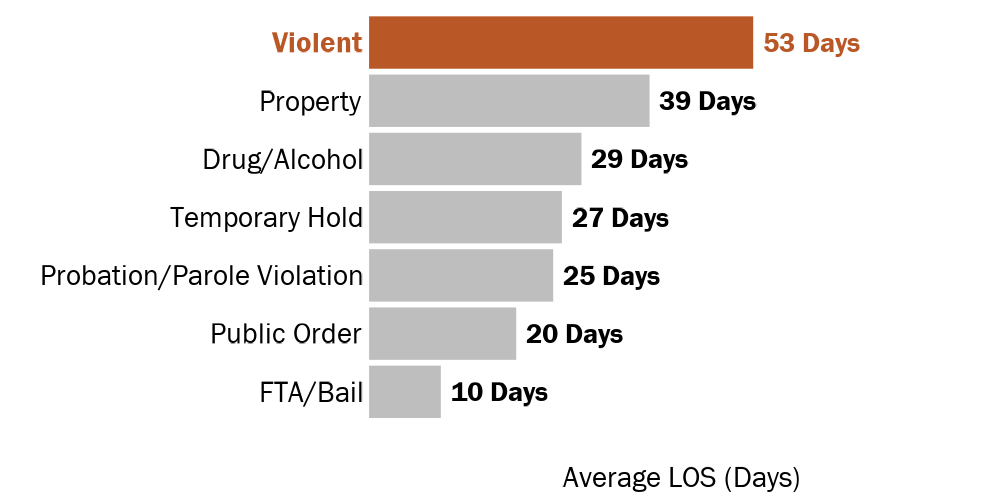
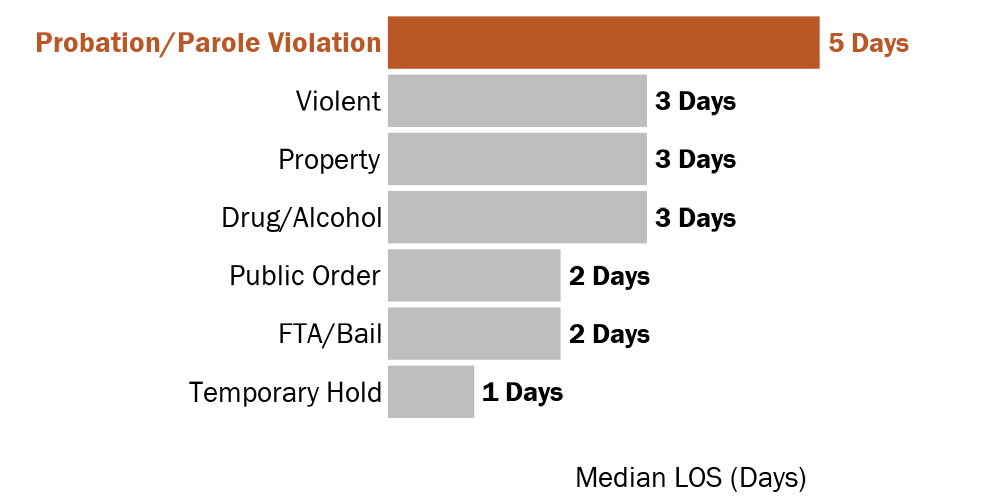
update los for median

diff --git a/_site/nh_los_analysis.html b/_site/nh_los_analysis.html
@@ -2545,8 +2545,8 @@ Research
 <h1 id="length-of-stay-statewide-from-2019-to-2021-dhhs-data">Length of Stay, Statewide from 2019 to 2021 (DHHS data)</h1>
 <p>Length of stay was calculated by the number of days between the booking date and release date (regardless of time). Some jails provided time stamps while others only provided month, day, and year. High utilizers have shorter lengths of stay compared to non-high utilizers.</p>
 <div class="layout-chunk" data-layout="l-body">
-<div class="reactable html-widget html-fill-item-overflow-hidden html-fill-item" id="htmlwidget-547ee866d4831f6e8308" style="width:auto;height:auto;"></div>
-<script type="application/json" data-for="htmlwidget-547ee866d4831f6e8308">{"x":{"tag":{"name":"Reactable","attribs":{"data":{"hu_group_exclusive":["Tier 1 HU","Tier 2 HU","Tier 3 HU","Non-HU","All (HU's and non-HU's)"],"min":[0,0,0,0,0],"median":[1,2,2,2,2],"mean":[14,23.6,28.7,29.8,27.6],"max":[869,816,827,1317,1317]},"columns":[{"id":"hu_group_exclusive","name":"","type":"factor","format":{"cell":{"separators":true},"aggregated":{"separators":true}},"align":"left","minWidth":190,"style":{"fontWeight":"bold","position":"sticky","borderRight":"1px solid #d3d3d3"}},{"id":"min","name":"Minimum","type":"numeric","format":{"cell":{"separators":true},"aggregated":{"separators":true}},"align":"left","minWidth":90},{"id":"median","name":"Median","type":"numeric","format":{"cell":{"separators":true},"aggregated":{"separators":true}},"align":"left","minWidth":90},{"id":"mean","name":"Mean","type":"numeric","format":{"cell":{"separators":true},"aggregated":{"separators":true}},"align":"left","minWidth":90},{"id":"max","name":"Maximum","type":"numeric","format":{"cell":{"separators":true},"aggregated":{"separators":true}},"align":"left","minWidth":90}],"pagination":false,"compact":true,"style":{"fontFamily":"Franklin Gothic Book","fontSize":"1.0rem"},"rowStyle":[null,null,null,null,{"border-top":"thin solid","fontWeight":"bold"}],"inline":true,"theme":{"cellStyle":{"display":"flex","flexDirection":"column","justifyContent":"center"}},"dataKey":"0d595599327592cf9c227e11d1192aaf"},"children":[]},"class":"reactR_markup"},"evals":[],"jsHooks":[]}</script>
+<div class="reactable html-widget html-fill-item-overflow-hidden html-fill-item" id="htmlwidget-e91be89118be5106324d" style="width:auto;height:auto;"></div>
+<script type="application/json" data-for="htmlwidget-e91be89118be5106324d">{"x":{"tag":{"name":"Reactable","attribs":{"data":{"hu_group_exclusive":["Tier 1 HU","Tier 2 HU","Tier 3 HU","Non-HU","All (HU's and non-HU's)"],"min":[0,0,0,0,0],"median":[1,2,2,2,2],"mean":[14,23.6,28.7,29.8,27.6],"max":[869,816,827,1317,1317]},"columns":[{"id":"hu_group_exclusive","name":"","type":"factor","format":{"cell":{"separators":true},"aggregated":{"separators":true}},"align":"left","minWidth":190,"style":{"fontWeight":"bold","position":"sticky","borderRight":"1px solid #d3d3d3"}},{"id":"min","name":"Minimum","type":"numeric","format":{"cell":{"separators":true},"aggregated":{"separators":true}},"align":"left","minWidth":90},{"id":"median","name":"Median","type":"numeric","format":{"cell":{"separators":true},"aggregated":{"separators":true}},"align":"left","minWidth":90},{"id":"mean","name":"Mean","type":"numeric","format":{"cell":{"separators":true},"aggregated":{"separators":true}},"align":"left","minWidth":90},{"id":"max","name":"Maximum","type":"numeric","format":{"cell":{"separators":true},"aggregated":{"separators":true}},"align":"left","minWidth":90}],"pagination":false,"compact":true,"style":{"fontFamily":"Franklin Gothic Book","fontSize":"1.0rem"},"rowStyle":[null,null,null,null,{"border-top":"thin solid","fontWeight":"bold"}],"inline":true,"theme":{"cellStyle":{"display":"flex","flexDirection":"column","justifyContent":"center"}},"dataKey":"0d595599327592cf9c227e11d1192aaf"},"children":[]},"class":"reactR_markup"},"evals":[],"jsHooks":[]}</script>
 </div>
 <div class="layout-chunk" data-layout="l-body">
 
@@ -2559,8 +2559,8 @@ Research
 <h1 id="length-of-stay-statewide-from-2019-to-2021-jail-datanon-pc-holds">Length of Stay, Statewide from 2019 to 2021 (Jail data/non-PC Holds)</h1>
 <p>We mostly will report on LOS using the jail data so we can analyze trends without PC holds. Since we can’t differentiate between PC holds and regular bookings in the DHHS data.</p>
 <div class="layout-chunk" data-layout="l-body">
-<div class="reactable html-widget html-fill-item-overflow-hidden html-fill-item" id="htmlwidget-2ef7fa308ce9aa408a44" style="width:auto;height:auto;"></div>
-<script type="application/json" data-for="htmlwidget-2ef7fa308ce9aa408a44">{"x":{"tag":{"name":"Reactable","attribs":{"data":{"hu_group_exclusive":["Tier 1 HU","Tier 2 HU","Tier 3 HU","Non-HU","All (HU's and non-HU's)"],"mean":[15.2,27.1,29.7,35.8,32.7],"min":[0,0,0,0,0],"median":[2,3,3,3,3],"max":[683,869,944,1106,1106]},"columns":[{"id":"hu_group_exclusive","name":"","type":"factor","format":{"cell":{"separators":true},"aggregated":{"separators":true}},"align":"left","minWidth":190,"style":{"fontWeight":"bold","position":"sticky","borderRight":"1px solid #d3d3d3"}},{"id":"mean","name":"Mean","type":"numeric","format":{"cell":{"separators":true},"aggregated":{"separators":true}},"align":"left","minWidth":90},{"id":"min","name":"Minimum","type":"numeric","format":{"cell":{"separators":true},"aggregated":{"separators":true}},"align":"left","minWidth":90},{"id":"median","name":"Median","type":"numeric","format":{"cell":{"separators":true},"aggregated":{"separators":true}},"align":"left","minWidth":90},{"id":"max","name":"Maximum","type":"numeric","format":{"cell":{"separators":true},"aggregated":{"separators":true}},"align":"left","minWidth":90}],"pagination":false,"compact":true,"style":{"fontFamily":"Franklin Gothic Book","fontSize":"1.0rem"},"rowStyle":[null,null,null,null,{"border-top":"thin solid","fontWeight":"bold"}],"inline":true,"theme":{"cellStyle":{"display":"flex","flexDirection":"column","justifyContent":"center"}},"dataKey":"3ff1063f6b918448945928e3e1ace125"},"children":[]},"class":"reactR_markup"},"evals":[],"jsHooks":[]}</script>
+<div class="reactable html-widget html-fill-item-overflow-hidden html-fill-item" id="htmlwidget-b36852785eb48657f61f" style="width:auto;height:auto;"></div>
+<script type="application/json" data-for="htmlwidget-b36852785eb48657f61f">{"x":{"tag":{"name":"Reactable","attribs":{"data":{"hu_group_exclusive":["Tier 1 HU","Tier 2 HU","Tier 3 HU","Non-HU","All (HU's and non-HU's)"],"mean":[15.2,27.1,29.7,35.8,32.7],"min":[0,0,0,0,0],"median":[2,3,3,3,3],"max":[683,869,944,1106,1106]},"columns":[{"id":"hu_group_exclusive","name":"","type":"factor","format":{"cell":{"separators":true},"aggregated":{"separators":true}},"align":"left","minWidth":190,"style":{"fontWeight":"bold","position":"sticky","borderRight":"1px solid #d3d3d3"}},{"id":"mean","name":"Mean","type":"numeric","format":{"cell":{"separators":true},"aggregated":{"separators":true}},"align":"left","minWidth":90},{"id":"min","name":"Minimum","type":"numeric","format":{"cell":{"separators":true},"aggregated":{"separators":true}},"align":"left","minWidth":90},{"id":"median","name":"Median","type":"numeric","format":{"cell":{"separators":true},"aggregated":{"separators":true}},"align":"left","minWidth":90},{"id":"max","name":"Maximum","type":"numeric","format":{"cell":{"separators":true},"aggregated":{"separators":true}},"align":"left","minWidth":90}],"pagination":false,"compact":true,"style":{"fontFamily":"Franklin Gothic Book","fontSize":"1.0rem"},"rowStyle":[null,null,null,null,{"border-top":"thin solid","fontWeight":"bold"}],"inline":true,"theme":{"cellStyle":{"display":"flex","flexDirection":"column","justifyContent":"center"}},"dataKey":"3ff1063f6b918448945928e3e1ace125"},"children":[]},"class":"reactR_markup"},"evals":[],"jsHooks":[]}</script>
 </div>
 <div class="layout-chunk" data-layout="l-body">
 
@@ -2606,14 +2606,14 @@ Research
 <h2 id="los-drug-courts">LOS Drug Courts</h2>
 <p>This table shows the minimum, median, mean, and maximum number of days for LOS for drug court-related bookings (non-PC holds).</p>
 <div class="layout-chunk" data-layout="l-body">
-<div class="reactable html-widget html-fill-item-overflow-hidden html-fill-item" id="htmlwidget-217290aba3f3db3fceb5" style="width:auto;height:auto;"></div>
-<script type="application/json" data-for="htmlwidget-217290aba3f3db3fceb5">{"x":{"tag":{"name":"Reactable","attribs":{"data":{"hu_group_exclusive":["Tier 1 HU","Tier 2 HU","Tier 3 HU","Non-HU","All (HU's and non-HU's)"],"min":[0,0,1,1,0],"median":[1,2,1,1,1],"mean":[5.1,5.6,6.8,5.1,5.5],"max":[169,170,106,71,170]},"columns":[{"id":"hu_group_exclusive","name":"","type":"factor","format":{"cell":{"separators":true},"aggregated":{"separators":true}},"align":"left","minWidth":190,"style":{"fontWeight":"bold","position":"sticky","borderRight":"1px solid #d3d3d3"}},{"id":"min","name":"Minimum","type":"numeric","format":{"cell":{"separators":true},"aggregated":{"separators":true}},"align":"left","minWidth":90},{"id":"median","name":"Median","type":"numeric","format":{"cell":{"separators":true},"aggregated":{"separators":true}},"align":"left","minWidth":90},{"id":"mean","name":"Mean","type":"numeric","format":{"cell":{"separators":true},"aggregated":{"separators":true}},"align":"left","minWidth":90},{"id":"max","name":"Maximum","type":"numeric","format":{"cell":{"separators":true},"aggregated":{"separators":true}},"align":"left","minWidth":90}],"pagination":false,"compact":true,"style":{"fontFamily":"Franklin Gothic Book","fontSize":"1.0rem"},"rowStyle":[null,null,null,null,{"border-top":"thin solid","fontWeight":"bold"}],"inline":true,"theme":{"cellStyle":{"display":"flex","flexDirection":"column","justifyContent":"center"}},"dataKey":"f301f8374f8175efe4830dd6e260fb56"},"children":[]},"class":"reactR_markup"},"evals":[],"jsHooks":[]}</script>
+<div class="reactable html-widget html-fill-item-overflow-hidden html-fill-item" id="htmlwidget-1d885ad706fee1b1dd80" style="width:auto;height:auto;"></div>
+<script type="application/json" data-for="htmlwidget-1d885ad706fee1b1dd80">{"x":{"tag":{"name":"Reactable","attribs":{"data":{"hu_group_exclusive":["Tier 1 HU","Tier 2 HU","Tier 3 HU","Non-HU","All (HU's and non-HU's)"],"min":[0,0,1,1,0],"median":[1,2,1,1,1],"mean":[5.1,5.6,6.8,5.1,5.5],"max":[169,170,106,71,170]},"columns":[{"id":"hu_group_exclusive","name":"","type":"factor","format":{"cell":{"separators":true},"aggregated":{"separators":true}},"align":"left","minWidth":190,"style":{"fontWeight":"bold","position":"sticky","borderRight":"1px solid #d3d3d3"}},{"id":"min","name":"Minimum","type":"numeric","format":{"cell":{"separators":true},"aggregated":{"separators":true}},"align":"left","minWidth":90},{"id":"median","name":"Median","type":"numeric","format":{"cell":{"separators":true},"aggregated":{"separators":true}},"align":"left","minWidth":90},{"id":"mean","name":"Mean","type":"numeric","format":{"cell":{"separators":true},"aggregated":{"separators":true}},"align":"left","minWidth":90},{"id":"max","name":"Maximum","type":"numeric","format":{"cell":{"separators":true},"aggregated":{"separators":true}},"align":"left","minWidth":90}],"pagination":false,"compact":true,"style":{"fontFamily":"Franklin Gothic Book","fontSize":"1.0rem"},"rowStyle":[null,null,null,null,{"border-top":"thin solid","fontWeight":"bold"}],"inline":true,"theme":{"cellStyle":{"display":"flex","flexDirection":"column","justifyContent":"center"}},"dataKey":"f301f8374f8175efe4830dd6e260fb56"},"children":[]},"class":"reactR_markup"},"evals":[],"jsHooks":[]}</script>
 </div>
 <p><br><br></p>
 <h2 id="los-charge-types">LOS Charge Types</h2>
 <div class="layout-chunk" data-layout="l-body">
-<div class="reactable html-widget html-fill-item-overflow-hidden html-fill-item" id="htmlwidget-14f3d3d5e9f5a3bd4353" style="width:auto;height:auto;"></div>
-<script type="application/json" data-for="htmlwidget-14f3d3d5e9f5a3bd4353">{"x":{"tag":{"name":"Reactable","attribs":{"data":{"crime_type_lookup":["Violent","Property","Drug/Alcohol","Temporary Hold","Probation/Parole Violation","Public Order","FTA/Bail"],"mean":[53,38.7,29.3,26.6,25.4,20.3,9.9],"min":[0,0,0,0,0,0,0],"median":[3,3,3,1,5,2,2],"max":[1106,869,731,863,616,726,474]},"columns":[{"id":"crime_type_lookup","name":"Charge Type","type":"character","format":{"cell":{"separators":true},"aggregated":{"separators":true}},"align":"left","minWidth":190,"style":{"fontWeight":"bold","position":"sticky","borderRight":"1px solid #d3d3d3"}},{"id":"mean","name":"Mean","type":"numeric","format":{"cell":{"separators":true},"aggregated":{"separators":true}},"align":"left","minWidth":90},{"id":"min","name":"Minimum","type":"numeric","format":{"cell":{"separators":true},"aggregated":{"separators":true}},"align":"left","minWidth":90},{"id":"median","name":"Median","type":"numeric","format":{"cell":{"separators":true},"aggregated":{"separators":true}},"align":"left","minWidth":90},{"id":"max","name":"Maximum","type":"numeric","format":{"cell":{"separators":true},"aggregated":{"separators":true}},"align":"left","minWidth":90}],"pagination":false,"compact":true,"style":{"fontFamily":"Franklin Gothic Book","fontSize":"1.0rem"},"inline":true,"theme":{"cellStyle":{"display":"flex","flexDirection":"column","justifyContent":"center"}},"dataKey":"fcf315d7b60857643b7500813559977a"},"children":[]},"class":"reactR_markup"},"evals":[],"jsHooks":[]}</script>
+<div class="reactable html-widget html-fill-item-overflow-hidden html-fill-item" id="htmlwidget-7d3fd20378c2b7c04a67" style="width:auto;height:auto;"></div>
+<script type="application/json" data-for="htmlwidget-7d3fd20378c2b7c04a67">{"x":{"tag":{"name":"Reactable","attribs":{"data":{"crime_type_lookup":["Violent","Property","Drug/Alcohol","Temporary Hold","Probation/Parole Violation","Public Order","FTA/Bail"],"mean":[53,38.7,29.3,26.6,25.4,20.3,9.9],"min":[0,0,0,0,0,0,0],"median":[3,3,3,1,5,2,2],"max":[1106,869,731,863,616,726,474]},"columns":[{"id":"crime_type_lookup","name":"Charge Type","type":"character","format":{"cell":{"separators":true},"aggregated":{"separators":true}},"align":"left","minWidth":190,"style":{"fontWeight":"bold","position":"sticky","borderRight":"1px solid #d3d3d3"}},{"id":"mean","name":"Mean","type":"numeric","format":{"cell":{"separators":true},"aggregated":{"separators":true}},"align":"left","minWidth":90},{"id":"min","name":"Minimum","type":"numeric","format":{"cell":{"separators":true},"aggregated":{"separators":true}},"align":"left","minWidth":90},{"id":"median","name":"Median","type":"numeric","format":{"cell":{"separators":true},"aggregated":{"separators":true}},"align":"left","minWidth":90},{"id":"max","name":"Maximum","type":"numeric","format":{"cell":{"separators":true},"aggregated":{"separators":true}},"align":"left","minWidth":90}],"pagination":false,"compact":true,"style":{"fontFamily":"Franklin Gothic Book","fontSize":"1.0rem"},"inline":true,"theme":{"cellStyle":{"display":"flex","flexDirection":"column","justifyContent":"center"}},"dataKey":"fcf315d7b60857643b7500813559977a"},"children":[]},"class":"reactR_markup"},"evals":[],"jsHooks":[]}</script>
 </div>
 <div class="layout-chunk" data-layout="l-body">
 
@@ -2623,8 +2623,8 @@ Research
 </div>
 <h1 id="remove-4705-bookings-that-are-outliers-out-of-28023-bookings">Remove 4,705 bookings that are outliers (out of 28,023 bookings)</h1>
 <div class="layout-chunk" data-layout="l-body">
-<div class="reactable html-widget html-fill-item-overflow-hidden html-fill-item" id="htmlwidget-1e34829570ef836e313c" style="width:auto;height:auto;"></div>
-<script type="application/json" data-for="htmlwidget-1e34829570ef836e313c">{"x":{"tag":{"name":"Reactable","attribs":{"data":{"crime_type_lookup":["Probation/Parole Violation","Property","Violent","Drug/Alcohol","Public Order","Temporary Hold","FTA/Bail"],"mean":[7.1,6.1,5.7,5.4,4.9,4.5,3.9],"min":[0,0,0,0,0,0,0],"median":[4,2,2,2,1,1,2],"max":[43,43,43,43,43,43,43]},"columns":[{"id":"crime_type_lookup","name":"Charge Type","type":"character","format":{"cell":{"separators":true},"aggregated":{"separators":true}},"align":"left","minWidth":190,"style":{"fontWeight":"bold","position":"sticky","borderRight":"1px solid #d3d3d3"}},{"id":"mean","name":"Mean","type":"numeric","format":{"cell":{"separators":true},"aggregated":{"separators":true}},"align":"left","minWidth":90},{"id":"min","name":"Minimum","type":"numeric","format":{"cell":{"separators":true},"aggregated":{"separators":true}},"align":"left","minWidth":90},{"id":"median","name":"Median","type":"numeric","format":{"cell":{"separators":true},"aggregated":{"separators":true}},"align":"left","minWidth":90},{"id":"max","name":"Maximum","type":"numeric","format":{"cell":{"separators":true},"aggregated":{"separators":true}},"align":"left","minWidth":90}],"pagination":false,"compact":true,"style":{"fontFamily":"Franklin Gothic Book","fontSize":"1.0rem"},"inline":true,"theme":{"cellStyle":{"display":"flex","flexDirection":"column","justifyContent":"center"}},"dataKey":"dc9e18d1c4e155d9c0404984dd131dd8"},"children":[]},"class":"reactR_markup"},"evals":[],"jsHooks":[]}</script>
+<div class="reactable html-widget html-fill-item-overflow-hidden html-fill-item" id="htmlwidget-e4f8226e01743d614b4b" style="width:auto;height:auto;"></div>
+<script type="application/json" data-for="htmlwidget-e4f8226e01743d614b4b">{"x":{"tag":{"name":"Reactable","attribs":{"data":{"crime_type_lookup":["Probation/Parole Violation","Property","Violent","Drug/Alcohol","Public Order","Temporary Hold","FTA/Bail"],"mean":[7.1,6.1,5.7,5.4,4.9,4.5,3.9],"min":[0,0,0,0,0,0,0],"median":[4,2,2,2,1,1,2],"max":[43,43,43,43,43,43,43]},"columns":[{"id":"crime_type_lookup","name":"Charge Type","type":"character","format":{"cell":{"separators":true},"aggregated":{"separators":true}},"align":"left","minWidth":190,"style":{"fontWeight":"bold","position":"sticky","borderRight":"1px solid #d3d3d3"}},{"id":"mean","name":"Mean","type":"numeric","format":{"cell":{"separators":true},"aggregated":{"separators":true}},"align":"left","minWidth":90},{"id":"min","name":"Minimum","type":"numeric","format":{"cell":{"separators":true},"aggregated":{"separators":true}},"align":"left","minWidth":90},{"id":"median","name":"Median","type":"numeric","format":{"cell":{"separators":true},"aggregated":{"separators":true}},"align":"left","minWidth":90},{"id":"max","name":"Maximum","type":"numeric","format":{"cell":{"separators":true},"aggregated":{"separators":true}},"align":"left","minWidth":90}],"pagination":false,"compact":true,"style":{"fontFamily":"Franklin Gothic Book","fontSize":"1.0rem"},"inline":true,"theme":{"cellStyle":{"display":"flex","flexDirection":"column","justifyContent":"center"}},"dataKey":"dc9e18d1c4e155d9c0404984dd131dd8"},"children":[]},"class":"reactR_markup"},"evals":[],"jsHooks":[]}</script>
 </div>
 <p><br><br></p>
 <div class="sourceCode" id="cb1"><pre class="sourceCode r distill-force-highlighting-css"><code class="sourceCode r"></code></pre></div>
